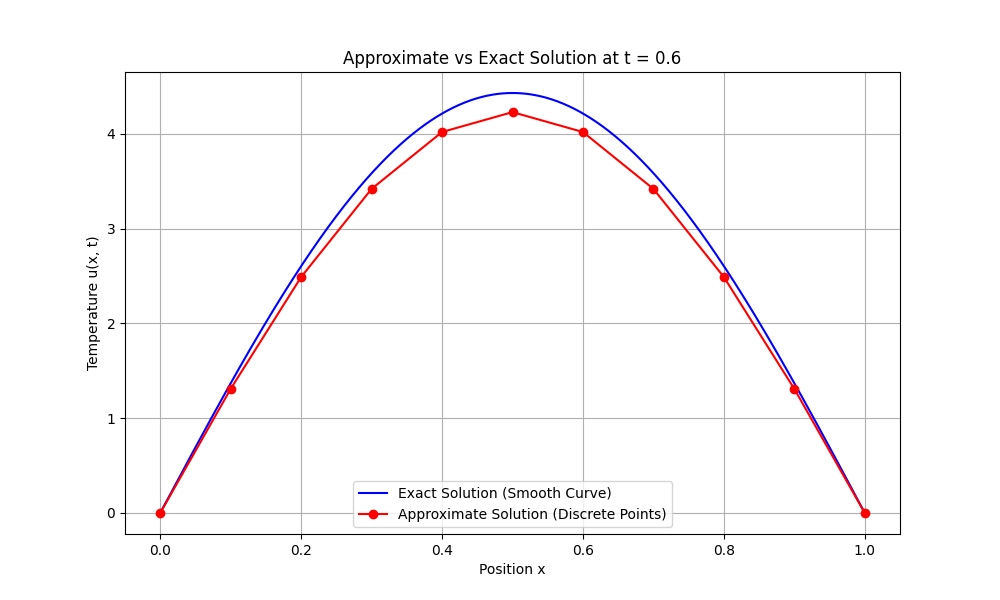
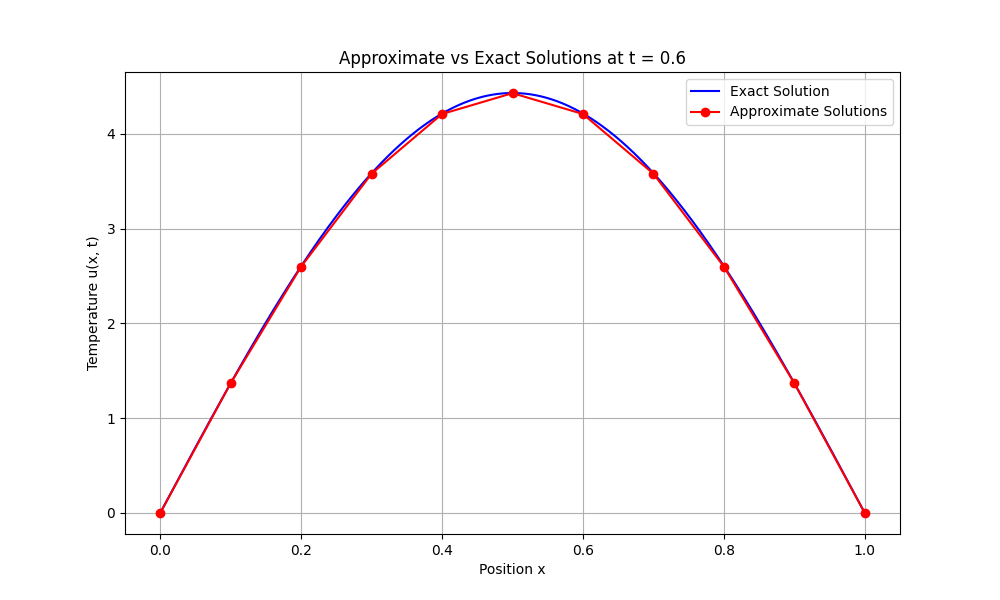
fixed some bugs and increased m for partial sum for analytical solution

diff --git a/heat-equation-solver.py b/heat-equation-solver.py
@@ -18,12 +18,12 @@ specified_time_points = [0, 0.2, 0.4, 0.6, 0.8, 1.0]  # Specified time points
 # Initialize the temperature array
 u = np.zeros((len(x_points), len(time_points)))
 
-# Initial condition: u(x, 0) = 100x
-u[:, 0] = 100 * x_points
-
 # Boundary conditions: u(0, t) = u(L, t) = 0
 u[0, :] = 0
 u[-1, :] = 0
+
+# Initial condition: u(x, 0) = 100x
+u[:, 0] = 100 * x_points
 
 # Finite difference scheme
 for j in range(1, len(time_points)):
@@ -40,7 +40,7 @@ approx_solutions = pd.DataFrame(u_specified, index=x_points, columns=specified_t
 # Define the analytical solution for the heat equation
 def analytical_solution(x, t, L, c_squared):
     solution = np.zeros_like(x)
-    for m in range(1, 100):  # Use the first 100 terms of the series
+    for m in range(1, 5000):  # Use the first 5000 terms of the series
         term = ((-1) ** (m + 1)) * (200 / (m * np.pi)) * np.sin(m * np.pi * x / L) * np.exp(-c_squared * (m * np.pi / L)**2 * t)
         solution += term
     return solution
@@ -49,6 +49,9 @@ def analytical_solution(x, t, L, c_squared):
 exact_solutions = np.zeros_like(u_specified)
 for j, t in enumerate(specified_time_points):
     exact_solutions[:, j] = analytical_solution(x_points, t, L, c_squared)
+
+# Initial condition: u(x, 0) = 100x
+exact_solutions[:, 0] = 100 * x_points
 
 # Store the exact solutions in a DataFrame
 exact_solutions_df = pd.DataFrame(exact_solutions, index=x_points, columns=specified_time_points)
@@ -106,10 +109,10 @@ exact_values_fine = analytical_solution(x_fine, 0.6, L, c_squared)
 
 # Plot
 plt.figure(figsize=(10, 6))
-plt.plot(x_fine, exact_values_fine, label="Exact Solution (Smooth Curve)", color="blue")
-plt.plot(x_values, approx_values, label="Approximate Solution (Discrete Points)", color="red", marker="o", linestyle="-")
+plt.plot(x_fine, exact_values_fine, label="Exact Solution", color="blue")
+plt.plot(x_values, approx_values, label="Approximate Solutions", color="red", marker="o", linestyle="-")
 
-plt.title("Approximate vs Exact Solution at t = 0.6")
+plt.title("Approximate vs Exact Solutions at t = 0.6")
 plt.xlabel("Position x")
 plt.ylabel("Temperature u(x, t)")
 plt.legend()
